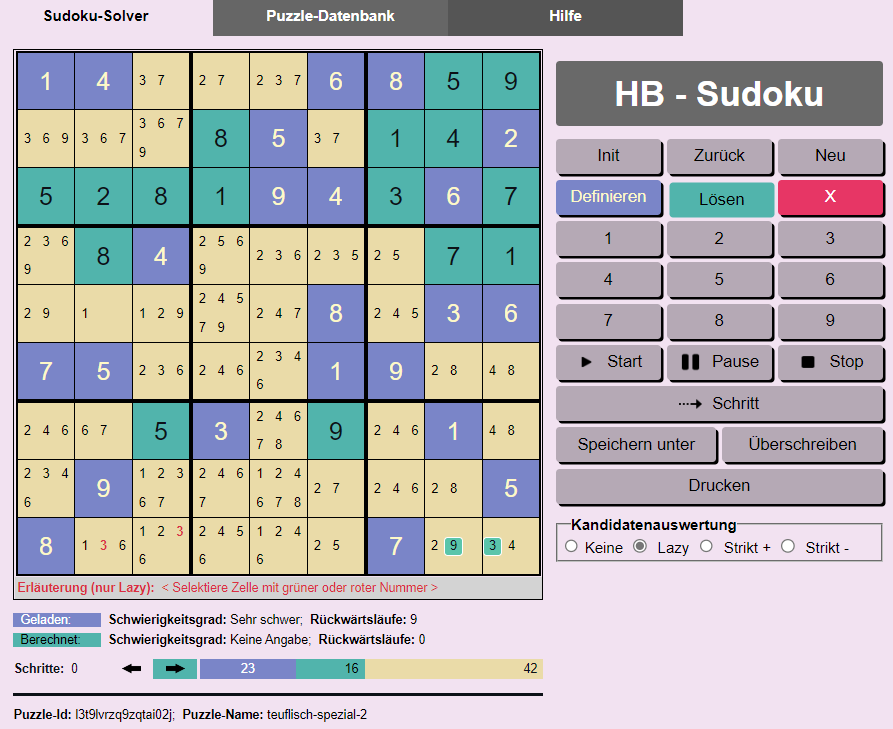
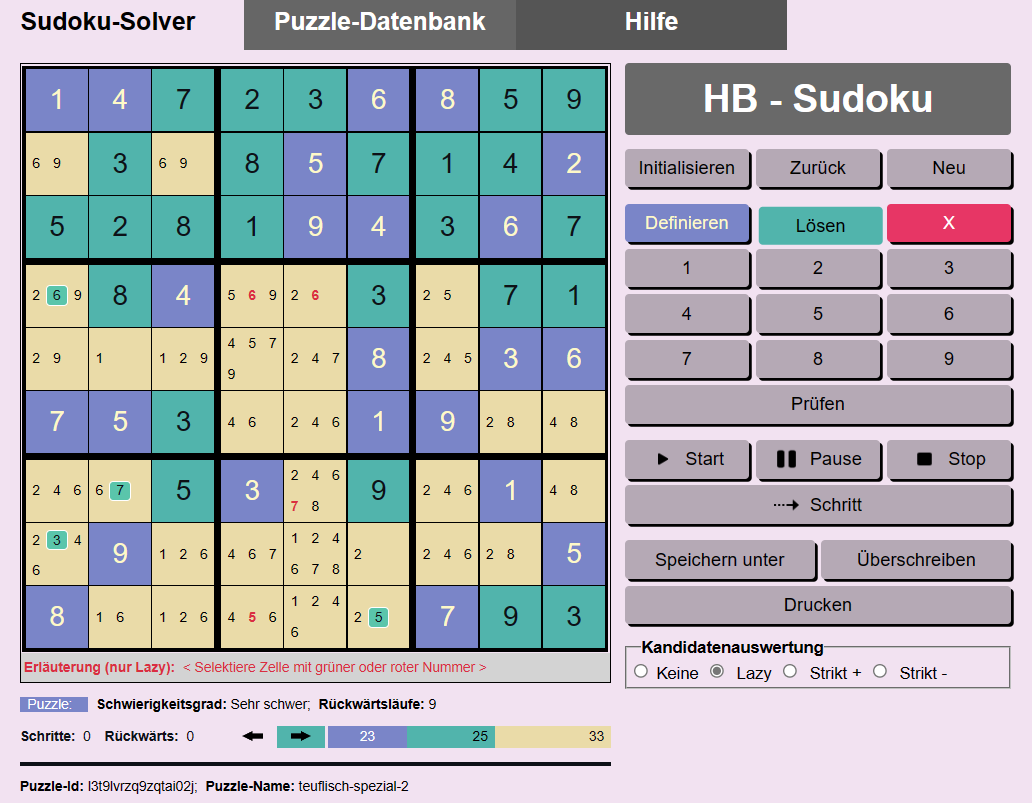
FB

diff --git a/help.md b/help.md
@@ -61,6 +61,7 @@ Die nachfolgend verwendeten Begriffe sind im Laufe der Entwicklung dieses Solver
 |<img src="./images/nochoice.png" width="100px"/><img src="./images/nochoice2.png" width="100px"/>|**Widerspruch - Überhaupt keine zulässige Nummer:** Für diese Zelle wurde noch keine Nummer gesetzt. Allerdings gibt es keine Kandidatnummer mehr, die noch gesetzt werden könnte. Die Nummern 4 und 8 sind unzulässig. In der zweiten dargestellten Zelle gibt es nicht mal mehr Kandidatnummern. D.h. das Sudoku ist widersprüchlich. Wenn das Sudoku noch erfolgreich gelöst werden soll, müssen ein oder mehrere der bisherigen Nummernsetzungen zurückgenommen werden. Tritt während der automatischen Ausführung eine solche Zelle auf, schaltet der Solver in den Rückwärts-Modus um.|
 |<img src="./images/twoNeccessary.png" width="100px"/>|**Widerspruch - Gleichzeitig verschiedene notwendige Nummern:** Für diese Zelle wurde noch keine Nummer gesetzt. Kandidatnummern sind 1, 2 und 4. Jedoch hat der Solver zwei verschiedene notwendige Nummern für diese Zelle ermittelt: 1 und 2. Das geht natürlich nicht. Es können in einer Zelle nicht zwei Nummern gleichzeitig gesetzt werden. D.h. das Sudoku ist widersprüchlich. Wenn das Sudoku noch erfolgreich gelöst werden soll, müssen ein oder mehrere der bisherigen Nummernsetzungen zurückgenommen werden. Tritt während der automatischen Ausführung eine solche Zelle auf, schaltet der Solver in den Rückwärts-Modus um.|
 |<img src="./images/conflct.png" width="100px"/>|**Widerspruch - Die Nummer 3 ist bereits einmal gesetzt:** Für diese Zelle wurde die Nummer 3 gesetzt. Diese Nummer ist direkt unzulässig, weil in der Spalte, Reihe oder dem Block dieser Zelle bereits eine 3 gesetzt ist. Das zweite oder dritte Auftreten der Nummer wird ebenfalls mit rotem Rand angezeigt.|
+||**Prüfen - Die Nummer ist falsch gesetzt, wie die Prüfen-Taste ermittelt hat:** Wenn ein Spieler ohne die Kandidaten-Nummern manuell die Nummern setzt, kann er jederzeit mittels der Prüfen-Taste ermitteln, ob alle seine bisherigen Nummern korrekt gesetzt sind. Alle nicht korrekten Setzungen werden wie der Widerspruch angezeigt.|
 
 ### Zwei Phasen
 
@@ -74,6 +75,10 @@ Hinweis: Gegebene Nummern, die Givens - dies sind blaue Nummern - können in der
 ### Manuelle Ausführung
 
 Manuelle Ausführung bedeutet, dass der Spieler die Nummern in den Zellen setzt. Die manuelle Ausführung wird in jedem Fall in der Definitionsphase genutzt. In der Lösungsphase ist sie optional. Die Lösungsphase kann alternativ auch automatisch durchgeführt werden. D.h. der Solver setzt die Nummern in den Zellen.
+
+### Manuelle Ausführung ohne Kandidatennummern
+
+Indem man die Kandidatenauswertung auf 'Keine' setzt, wird die Kandidatenanzeige ausgeschaltet. Auf diese Weise kann man am Computer das Puzzle lösen wie auf einem Blatt Papier.
 
 ### Automatische Ausführung
 
@@ -220,9 +225,9 @@ Extrem oder sehr schwere Sudokus eignen sich nicht für die manuelle Lösungssuc
 
 ## Der Sudoku-Generator
 
-Nahtlos integriert in den Sudoku-Solver findet sich ein Sudoku-Generator. Mittels der Taste **Neu** kann ein neues Puzzle generiert werden. Der Generator generiert nur Puzzles mit den Schwierigkeitsgraden Leicht, Mittel und Schwer. Also keine sehr schweren Puzzles. Die generierten Puzzles können daher allein durch logisches Schließen ohne Backtracking (Trial and Error) gelöst werden.
+Nahtlos integriert in den Sudoku-Solver findet sich ein Sudoku-Generator. Mittels der Taste **Neu** kann ein neues Puzzle generiert werden. Der Generator generiert nur Puzzles mit den Schwierigkeitsgraden 'Leicht', 'Mittel' und 'Schwer'. Also keine sehr schweren Puzzles. Die generierten Puzzles können daher allein durch logisches Schließen ohne Backtracking gelöst werden.
 
-Der Generator kann nicht gezielt ein Puzzle mit bestimmtem Schwierigkeitsgrad herstellen. Die generierten Puzzles haben zufällig einen der genannten Schwierigkeitsgrade. Wenn man einen bestimmten Schwierigkeitsgrad wünscht, muss man gegebenenfalls mehrere Generierungen veranlassen, bis der gewünschte Schwierigkeitsgrad dabei ist.
+Der Generator kann nicht gezielt ein Puzzle mit bestimmtem Schwierigkeitsgrad herstellen. Die generierten Puzzles haben zufällig einen der Schwierigkeitsgrade 'Leicht', 'Mittel' oder 'Schwer'. Wenn man einen bestimmten Schwierigkeitsgrad wünscht, muss man gegebenenfalls mehrere Generierungen veranlassen, bis der gewünschte Schwierigkeitsgrad dabei ist.
 
 ## Die Puzzle-Datenbank
 
